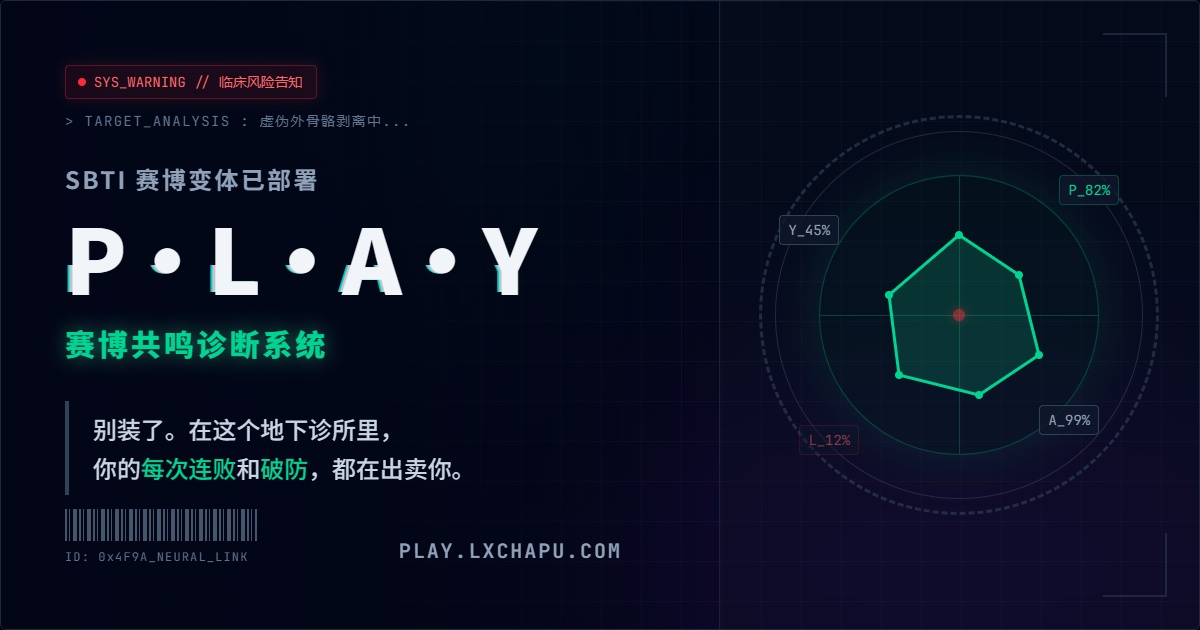
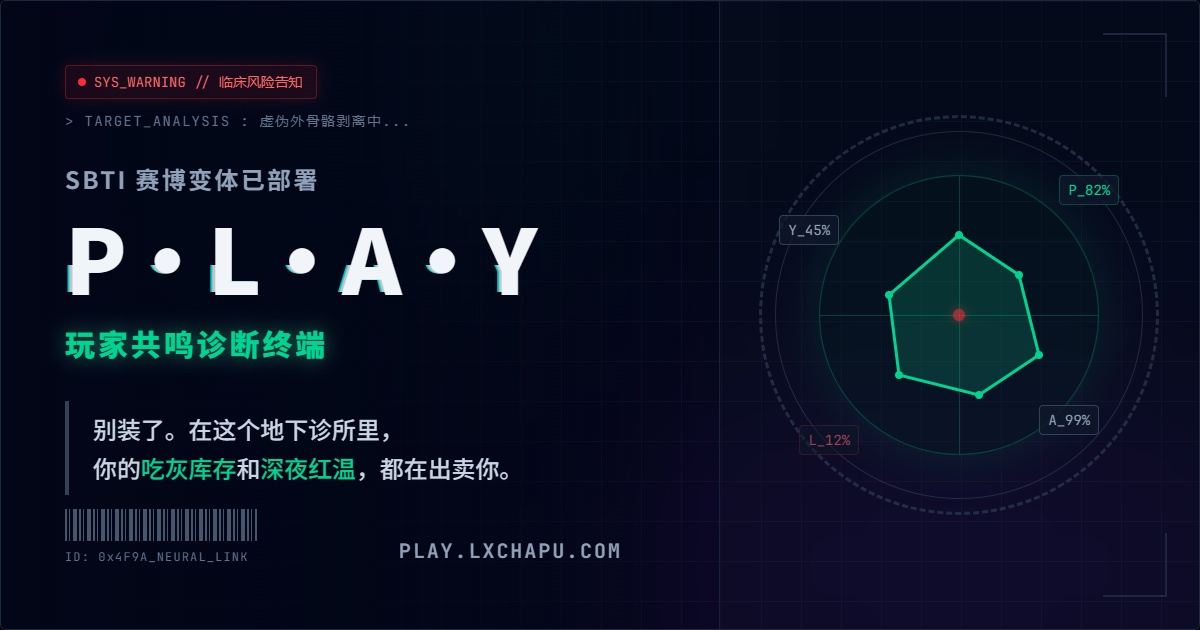
docs: 优化页面 SEO 元数据文案与 OG 图片路径

Changed region(s): [[0.0925, 0.7238, 0.4317, 0.7841], [0.0308, 0.5127, 0.1233, 0.573], [0.2158, 0.5127, 0.2775, 0.573]]

diff --git a/src/app/layout.tsx b/src/app/layout.tsx
@@ -4,11 +4,11 @@ import type { Metadata } from "next";
 
 export const metadata: Metadata = {
   title: {
-    default: "P·L·A·Y 游戏人格诊断系统 | 测算你的赛博病历",
+    default: "P·L·A·Y 人格诊断终端 | 解剖你的玩家人格",
     template: "%s | P·L·A·Y",
   },
   description:
-    "虚伪的 MBTI 已经过时，SBTI 赛博变体已部署。通过 4 个维度解剖你的真实游戏人格。敢来直面吃灰的游戏库和凌晨的连败记录，查收你的专属赛博病历吗？",
+    "虚伪的 MBTI 社交已经过时，SBTI 赛博变体已部署。通过 4 个维度解剖你的真实游戏人格。敢来直面吃灰的游戏库和凌晨的连败记录，查收你的专属赛博病历吗？",
   keywords: [
     "SBTI",
     "游戏人格测试",
@@ -22,17 +22,17 @@ export const metadata: Metadata = {
   authors: [{ name: "lxchapu" }],
 
   openGraph: {
-    title: "P·L·A·Y 游戏人格诊断 | 查收你的赛博病历",
+    title: "P·L·A·Y 人格诊断终端 | 解剖你的玩家人格",
     description:
-      "在这个地下诊所，你的每次点击和破防都在出卖你。点击接入终端，剥开高端玩家的虚荣伪装。",
+      "在这个地下诊所，你的吃灰库存和深夜红温都在出卖你。点击接入终端，剥开高端玩家的虚荣伪装。",
     url: "https://play.lxchapu.com",
     siteName: "P·L·A·Y 诊断终端",
     images: [
       {
-        url: "/og-image.jpg",
+        url: "https://play.lxchapu.com/og-image.jpg",
         width: 1200,
         height: 630,
-        alt: "P·L·A·Y 赛博共鸣诊断系统",
+        alt: "P·L·A·Y 人格诊断终端",
       },
     ],
     locale: "zh_CN",
@@ -41,10 +41,10 @@ export const metadata: Metadata = {
 
   twitter: {
     card: "summary_large_image",
-    title: "P·L·A·Y 游戏人格诊断 | 查收你的赛博病历",
+    title: "P·L·A·Y 人格诊断终端 | 解剖你的玩家人格",
     description:
-      "虚伪的 MBTI 已经过时。敢来测算你的赛博劳役抗性与多巴胺受体吗？",
-    images: ["/og-image.jpg"],
+      "虚伪的 MBTI 社交已经过时。敢来测算你的赛博劳役抗性与多巴胺受体吗？",
+    images: ["https://play.lxchapu.com/og-image.jpg"],
   },
   robots: {
     index: true,
